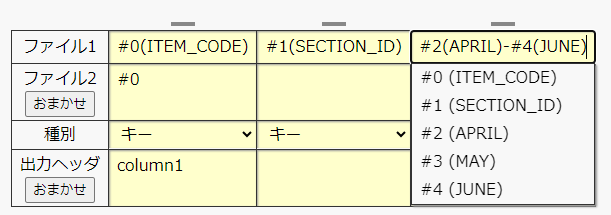
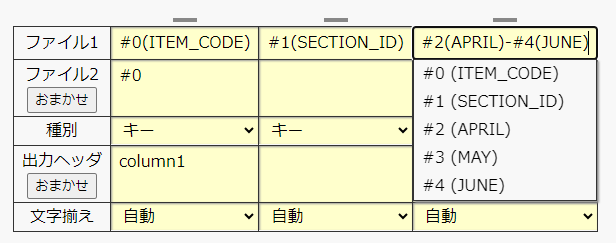
update readme

Changed region(s): [[0.0, 0.0558, 0.9951, 0.9767]]

diff --git a/README.md b/README.md
@@ -31,12 +31,15 @@ ITEM_CODE,SECTION_ID,APRIL,MAY,JUNE
 102800,230,5020,5100,4090
 ```
 
+まず、使用する文字コードを設定します。比較するCSVや設計JSONファイルで共通の設定です。
+
+![](./materials/0-1.png)
+
 
 ### 1. ファイルを選択
 
 ファイル1をアップロードします。
 
-1. 文字コードは、ファイルに合わせて選択します。
 1. 「ファイルを選択」から `a.csv` を選択します。
 1. 自動で、プレビュー画面に読み込まれます。
 1. 「名前」は自動的にファイル名の `a` が入力されますが、好きな名前に変更可能です。
@@ -89,11 +92,12 @@ ITEM_CODE,SECTION_ID,APRIL,MAY,JUNE
 
 各項目ごとに仕様を説明します。
 
-### 1. ファイル選択
-
 #### 文字コード
 
-文字コードは `Shift_JIS` または `UTF-8` を選択できます。文字コードは、読み込む2つのファイルで共通である必要があります。
+文字コードは `Shift_JIS` または `UTF-8` を選択できます。文字コードは、比較するCSVファイルや設計JSONファイルで共通である必要があります。
+
+
+### 1. ファイル選択
 
 #### [ファイル1, ファイル2] > ファイルを選択
 
@@ -128,17 +132,17 @@ a[0] != '' && a[3] != ''
 2つのファイルの列の対応を定義します。
 
 
-#### 列を「増やす」ボタン
+#### 設計 > 列を「増やす」ボタン
 
 表の入力欄を右端に追加します。
 
 
-#### 列を「減らす」ボタン
+####  設計 > 列を「減らす」ボタン
 
 表の最右の入力欄を削除します。
 
 
-#### 表 > ファイル1
+####  設計 > 表 > ファイル1
 
 ファイル1の列を指定します。
 
@@ -154,20 +158,82 @@ a[0] != '' && a[3] != ''
 式指定では、任意の式を記述出来ます。例えば3列目と5列目の和を表す場合は、`=#3+#5` または `=a[3]+a[5]` と書きます。列が `#n` で参照できることを除けば JavaScript の書式に従います（ここに書かれたコードは、`#n` を `a[n]` に置換したのち、`eval()`で評価して直接埋め込みます）。
 
 
-#### 表 > ファイル2
+####  設計 > 表 > ファイル2
 
 以下の点を除き、ファイル1と同様です。
 * 「おまかせ」ボタンを押すと、ファイル1の列名とファイル2の列名を比較し、ファイル1の列番号に対応すると推測されるファイル2の列番号を自動で入力します。推測に失敗した場合は入力されません。
 * 連続列指定では、ファイル1と同じ列数である必要があります。
 
 
-#### 表 > 種別
+####  設計 > 表 > 種別
 
 各列の役目を指定します。以下の4種類があります。
 * キー：ファイル1とファイル2の比較行を決めるためのキーとして扱います。複数の列をキーとしても構いませんが、キーで唯一の行が指定できる必要があります（キーの重複はできません）。
 * 比較：2つのファイルで一致しているかどうか比較します。
 * 表示：最終的な結果に表示させる列で、比較の動作に関与しません。
 * 無効：キー、比較、表示のいずれとしても扱いません（記述していないのと等価です）。
+
+
+####  設計 > 表 > 出力ヘッダ
+
+比較結果を出力する際のヘッダ名を記述します。任意の名前を指定できます。「おまかせ」ボタンを押すと、可能な限りファイル2のヘッダの一番下を自動で入力します。
+
+
+####  設計 > 表 > 文字揃え
+
+比較結果を出力する際の文字揃えを選択できます。「自動」を選択すると、種別がキーの場合は左揃え、その他の場合は数値であれば右揃え、数値でなければ左揃えとなります。
+
+
+####  設計の保存/読み込み > ダウンロード
+
+設計の表を保存できます。保存形式は後述のJSON形式です。
+
+
+#### 設計の保存/読み込み > ファイルを選択
+
+以前に保存した設計JSONファイルを読み込みできます。ファイルを選択すると、ファイルの内容に合わせて設計の表が上書き更新されます。
+
+
+#### 設計JSONファイルの形式
+
+設計表の列ごとに、次のキーで定義されるオブジェクトを作り、列数に合わせたリストで表記します。
+
+* `cdt-file1` (string): ファイル1の列を指定します。
+* `cdt-file2` (string): ファイル2の列を指定します。
+* `cdt-type` (string): 種別を指定します。{`key` (キー), `compare` (比較), `show` (表示), `disable` (無効)}から選択します。
+* `cdt-header` (string): 出力ヘッダを指定します。改行コードは `\n` を使用します。
+* `cdt-align` (string): 文字揃えを指定します。{`auto` (自動), `left` (左揃え), `center` (中央揃え), `right` (右揃え)}から選択します。
+
+例えば、次の設計表は、次の設計JSONで記述できます。
+
+![](./materials/2-3.png)
+
+
+```json
+[
+    {
+        "cdt-file1": "#0(ITEM_CODE)",
+        "cdt-file2": "#0",
+        "cdt-type": "key",
+        "cdt-header": "ITEM_CODE",
+        "cdt-align": "auto"
+    },
+    {
+        "cdt-file1": "#1(SECTION_ID)",
+        "cdt-file2": "#1",
+        "cdt-type": "key",
+        "cdt-header": "SECTION_ID",
+        "cdt-align": "auto"
+    },
+    {
+        "cdt-file1": "#2(APRIL)-#4(JUNE)",
+        "cdt-file2": "#2-#4",
+        "cdt-type": "compare",
+        "cdt-header": "APRIL\nMAY\nJUNE",
+        "cdt-align": "auto"
+    }
+]
+```
 
 
 ### 実行
@@ -189,3 +255,10 @@ a[0] != '' && a[3] != ''
 * 緑色は追加、赤色は削除を示しています。
 * 行全体が赤の部分は、`a`のみにキーが存在することを示しています。「キーがファイル1のみに存在する行も表示する」のチェックを外して実行すると省略されます。
 * 行全体が緑の部分は、`b`のみにキーが存在することを示しています。「キーがファイル2のみに存在する行も表示する」のチェックを外して実行すると省略されます。
+
+
+#### 左右に並べて表示する（入力の全てのカラムも追加する）
+
+* 「左右に並べて表示する（入力の全てのカラムも追加する）」のチェックを入れて実行すると、ファイル1とファイル2を列ごとに左右に並べた形式で表示します。
+* キーがファイル1またはファイル2の片方のみに存在する場合は、その片方のみを表示し、他方は空欄で表示します。
+* カラム設計で指定した列に加えて、元の入力ファイルの全てのカラムを表示します。
